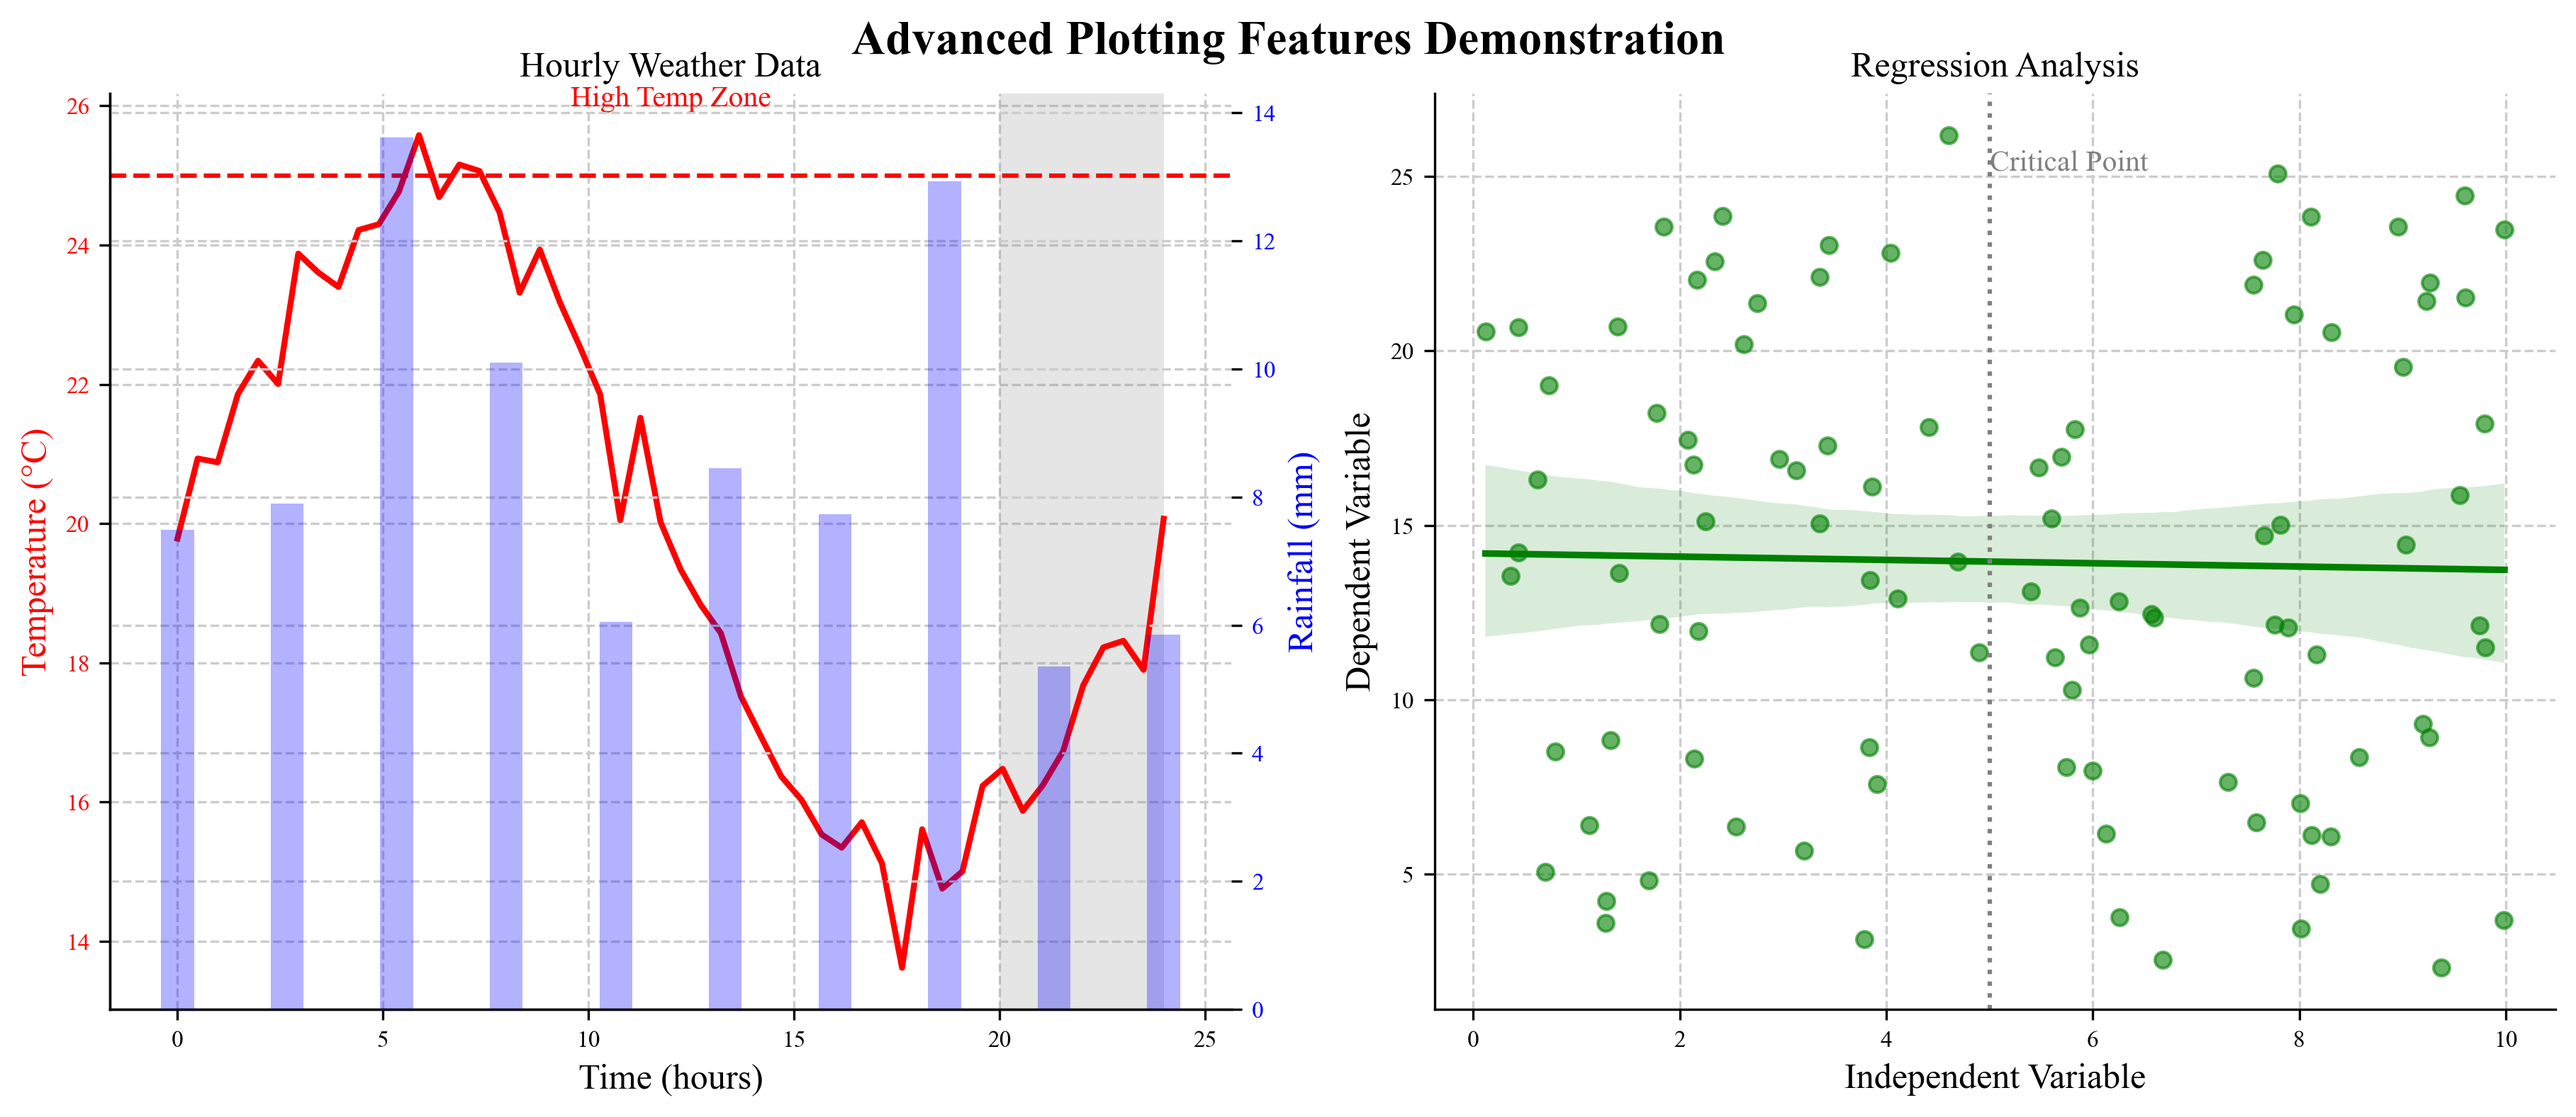
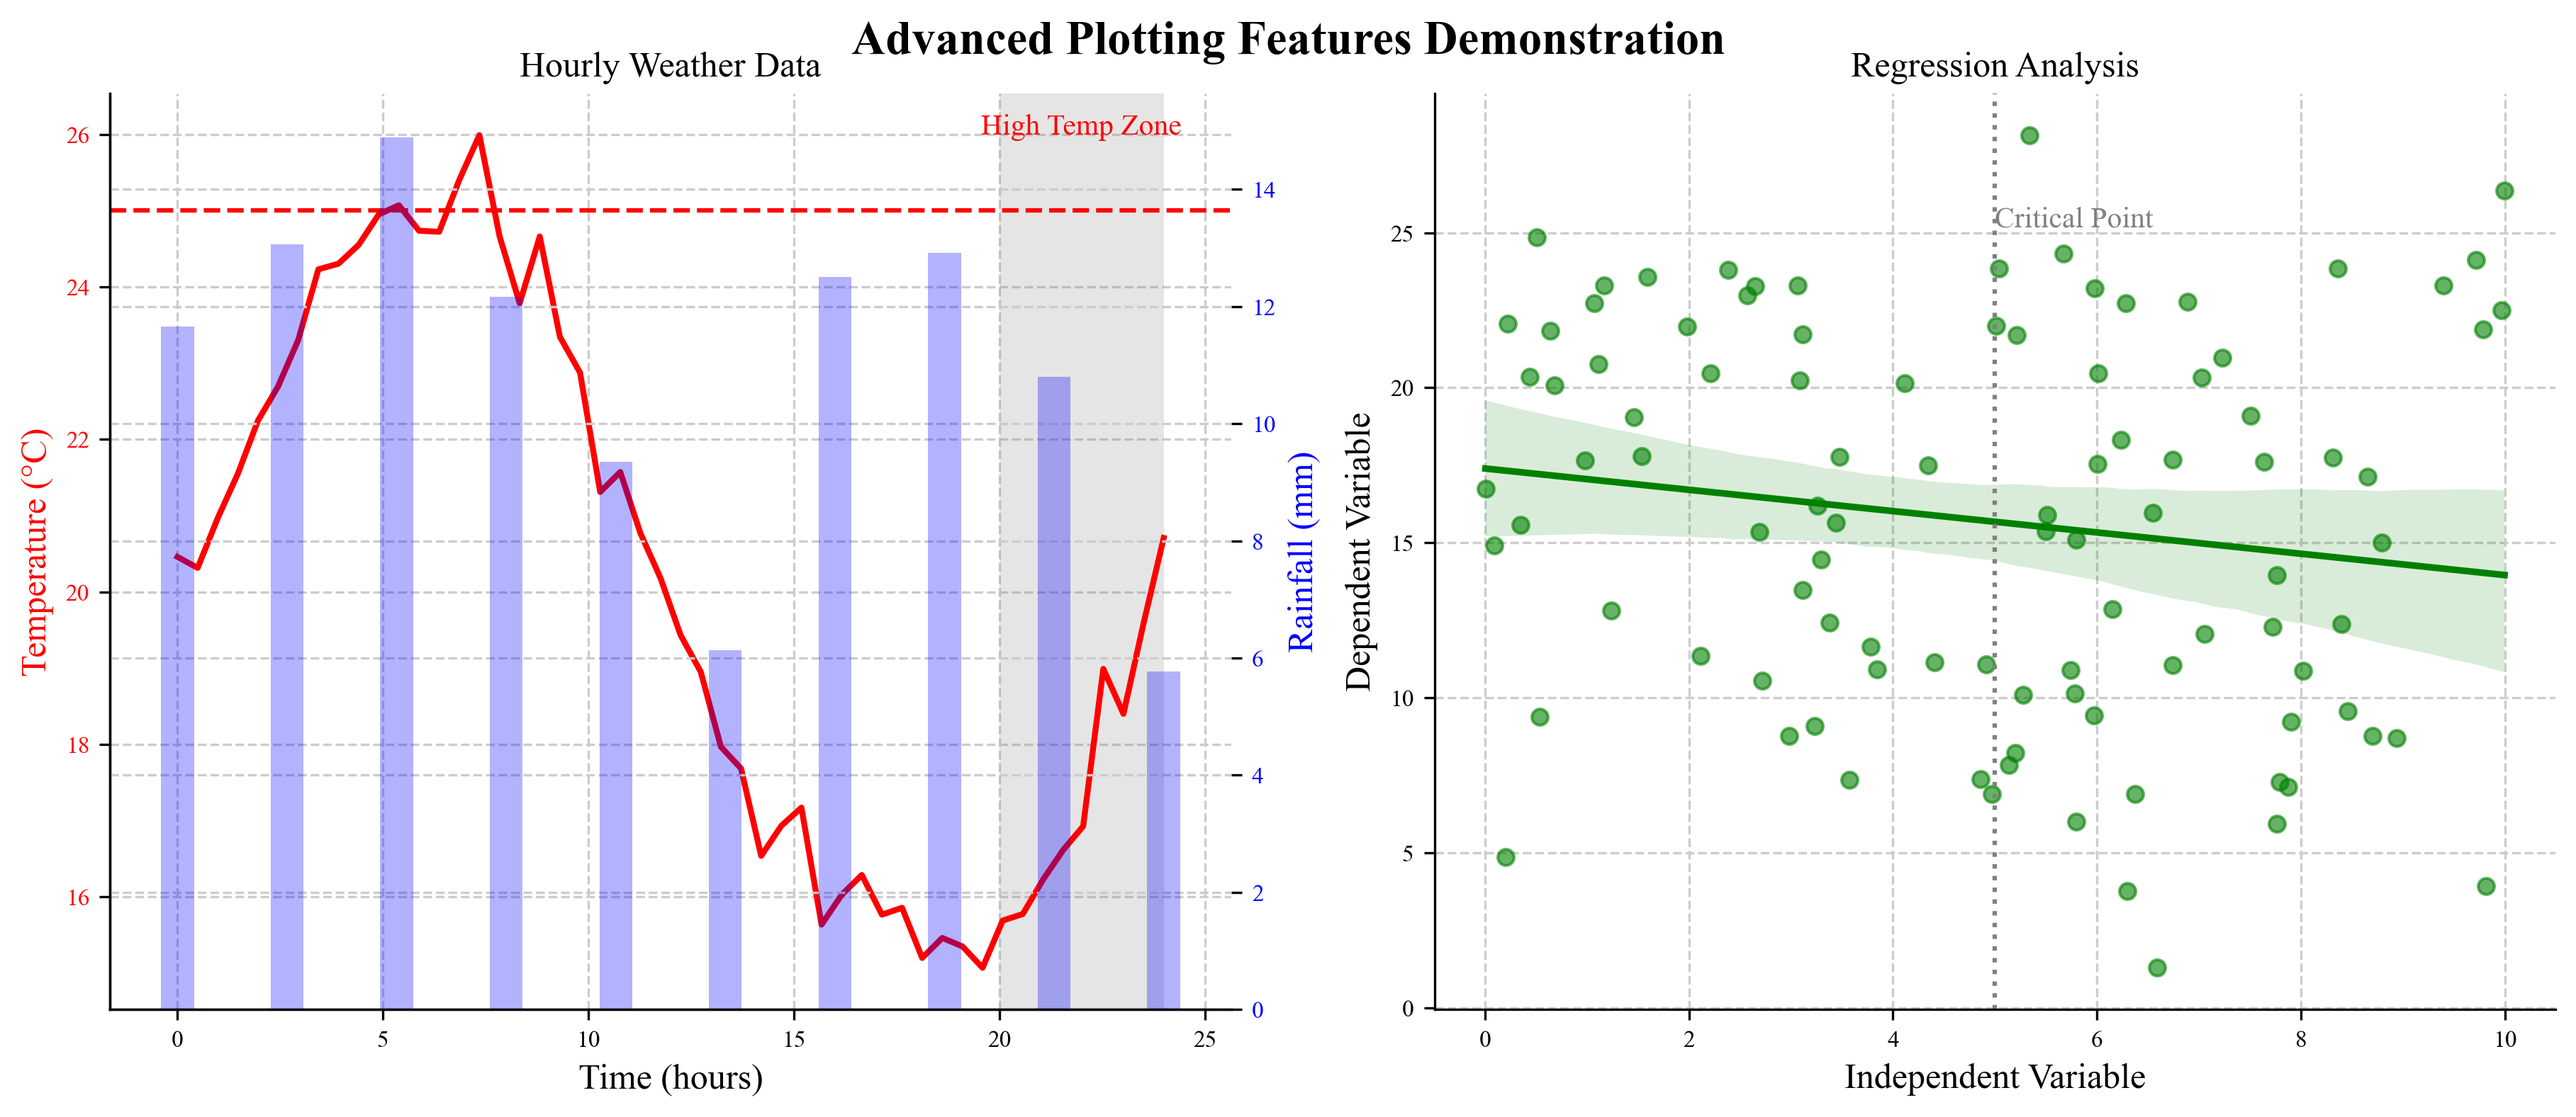
修复twinx逻辑

diff --git a/paperplot/mixins/modifiers.py b/paperplot/mixins/modifiers.py
@@ -6,6 +6,7 @@ import matplotlib.image as mpimg
 import logging
 import numpy as np
 from adjustText import adjust_text
+from collections import OrderedDict
 logger = logging.getLogger(__name__)
 
 class ModifiersMixin:
@@ -151,6 +152,7 @@ class ModifiersMixin:
     def set_legend(self, tag: Optional[Union[str, int]] = None, **kwargs) -> 'Plotter':
         """
         为指定或当前活动的子图添加图例。
+        此方法能够自动处理双Y轴（twinx）图，合并主轴和孪生轴的图例项。
 
         Args:
             tag (Optional[Union[str, int]], optional): 目标子图的tag。如果为None，则使用最后一次绘图的子图。
@@ -159,8 +161,33 @@ class ModifiersMixin:
         Returns:
             Plotter: 返回Plotter实例以支持链式调用。
         """
-        ax = self._get_active_ax(tag)
-        ax.legend(**kwargs)
+        active_tag = tag if tag is not None else self.last_active_tag
+        if active_tag is None:
+            raise ValueError("No active plot to add a legend to. Please plot something first or specify a 'tag'.")
+
+        # 1. 获取主轴并收集其图例项
+        ax_primary = self._get_ax_by_tag(active_tag)
+        h1, l1 = ax_primary.get_legend_handles_labels()
+
+        # 2. 检查是否存在孪生轴，并收集其图例项
+        h2, l2 = [], []
+        if active_tag in self.twin_axes:
+            ax_twin = self.twin_axes[active_tag]
+            h2, l2 = ax_twin.get_legend_handles_labels()
+            if ax_twin.get_legend():
+                ax_twin.get_legend().remove() # 清理孪生轴上可能存在的旧图例
+
+        # 3. 合并并使用 OrderedDict 去重
+        handles = h1 + h2
+        labels = l1 + l2
+        if not handles: # 如果没有任何图例项，直接返回
+            return self
+            
+        by_label = OrderedDict(zip(labels, handles))
+        
+        # 4. 在主轴上创建统一的图例
+        ax_primary.legend(by_label.values(), by_label.keys(), **kwargs)
+        
         return self
 
     def set_suptitle(self, title: str, **kwargs):
@@ -408,20 +435,91 @@ class ModifiersMixin:
         
         return self
 
-    def add_twinx(self, tag: Optional[Union[str, int]] = None, **kwargs) -> plt.Axes:
+    def add_twinx(self, tag: Optional[Union[str, int]] = None, **kwargs) -> 'Plotter':
         """
-        为指定或当前活动的子图创建一个共享X轴但拥有独立Y轴的“双Y轴”图。
+        为指定或当前活动的子图创建一个共享X轴但拥有独立Y轴的“双Y轴”图，
+        并切换Plotter的活动目标到新创建的孪生轴，以支持链式调用。
 
         Args:
             tag (Optional[Union[str, int]], optional): 目标子图的tag。如果为None，则使用最后一次绘图的子图。
             **kwargs: 传递给 `ax.twinx` 的其他参数。
 
         Returns:
-            plt.Axes: 返回新创建的孪生Axes对象，可用于后续绘图。
+            Plotter: 返回Plotter实例以支持链式调用。
+
+        Warning:
+            调用此方法后，Plotter会进入“孪生轴模式”。所有后续的绘图和修饰
+            命令都将作用于新创建的孪生轴。若要返回操作主轴或切换到其他
+            子图，必须显式调用 :meth:`target_primary` 方法。
         """
-        ax1 = self._get_active_ax(tag)
+        active_tag = tag if tag is not None else self.last_active_tag
+        if active_tag is None:
+            raise ValueError("Cannot create twin axis: No active plot found.")
+            
+        if active_tag in self.twin_axes:
+            raise ValueError(f"Tag '{active_tag}' already has a twin axis. Cannot create another one.")
+
+        # 始终获取主轴，避免在孪生轴上创建孪生轴的错误
+        ax1 = self._get_ax_by_tag(active_tag)
         ax2 = ax1.twinx(**kwargs)
-        return ax2
+        
+        # 存储孪生轴并切换上下文
+        self.twin_axes[active_tag] = ax2
+        self.active_target = 'twin'
+        
+        return self
+
+    def target_primary(self, tag: Optional[Union[str, int]] = None) -> 'Plotter':
+        """
+        将后续操作的目标切换回主坐标轴（primary axis）。
+
+        Args:
+            tag (Optional[Union[str, int]], optional): 
+                如果提供，将确保 `last_active_tag` 指向该主轴，并切换上下文。
+                如果为None，则只切换上下文到 'primary'。
+
+        Returns:
+            Plotter: 返回Plotter实例以支持链式调用。
+        """
+        self.active_target = 'primary'
+        if tag is not None:
+            # 确保 last_active_tag 指向的是我们想操作的主轴
+            # _get_ax_by_tag 会隐式校验tag存在性
+            _ = self._get_ax_by_tag(tag) 
+            self.last_active_tag = tag
+        return self
+
+    def target_twin(self, tag: Optional[Union[str, int]] = None) -> 'Plotter':
+        """
+        将后续操作的目标切换到孪生坐标轴（twin axis）。
+
+        Args:
+            tag (Optional[Union[str, int]], optional): 
+                如果提供，将确保 `last_active_tag` 指向该主轴，并切换上下文。
+                如果为None，则只切换上下文到 'twin'，使用当前的 `last_active_tag`。
+
+        Returns:
+            Plotter: 返回Plotter实例以支持链式调用。
+
+        Raises:
+            ValueError: 如果在没有孪生轴的子图上尝试切换到 'twin' 模式。
+        """
+        self.active_target = 'twin'
+        
+        active_tag = tag if tag is not None else self.last_active_tag
+        if active_tag is None:
+            raise ValueError("Cannot switch to twin mode: No active plot found and no tag specified.")
+
+        if active_tag not in self.twin_axes:
+            raise ValueError(f"Cannot switch to twin mode for tag '{active_tag}': No twin axis found. Did you call add_twinx() first?")
+
+        # 如果提供了 tag，更新 last_active_tag
+        if tag is not None:
+            # 确保 tag 对应的主轴存在
+            _ = self._get_ax_by_tag(tag)
+            self.last_active_tag = tag
+            
+        return self
 
     def add_hline(self, y: float, tag: Optional[Union[str, int]] = None, **kwargs) -> 'Plotter':
         """

diff --git a/paperplot/core.py b/paperplot/core.py
@@ -135,6 +135,11 @@ class Plotter(GenericPlotsMixin, DomainSpecificPlotsMixin, ThreeDPlotsMixin, Mac
         self.last_active_tag: Optional[Union[str, int]] = None
         # 用于缓存每个子图使用的数据
         self.data_cache: Dict[Union[str, int], pd.DataFrame] = {}
+        
+        # 存储已创建的孪生轴
+        self.twin_axes: Dict[Union[str, int], plt.Axes] = {}
+        # 标记当前的活动目标是主轴还是孪生轴
+        self.active_target: str = 'primary' # 默认是 'primary'
 
         self.plotted_axes: set[plt.Axes] = set()
 
@@ -223,6 +228,16 @@ class Plotter(GenericPlotsMixin, DomainSpecificPlotsMixin, ThreeDPlotsMixin, Mac
         active_tag = tag if tag is not None else self.last_active_tag
         if active_tag is None:
             raise ValueError("操作失败。之前没有任何绘图操作，且未指定'tag'。")
+        
+        # 新增: 检查是否处于孪生轴上下文
+        if self.active_target == 'twin':
+            if active_tag in self.twin_axes:
+                return self.twin_axes[active_tag]
+            else:
+                # 如果用户尝试在没有孪生轴的图上操作，给出清晰的错误提示
+                raise ValueError(f"No twin axis found for tag '{active_tag}'. Did you call add_twinx() first?")
+        
+        # 如果 active_target 不是 'twin'，则执行原有逻辑
         return self._get_ax_by_tag(active_tag)
 
     def _resolve_ax_and_tag(self, tag: Optional[Union[str, int]] = None, ax: Optional[plt.Axes] = None) -> Tuple[plt.Axes, Union[str, int]]:
@@ -249,6 +264,36 @@ class Plotter(GenericPlotsMixin, DomainSpecificPlotsMixin, ThreeDPlotsMixin, Mac
             DuplicateTagError: 如果提供的新`tag`已存在但未在优先级2中被解析
                                (例如，在顺序模式下)。
         """
+        # 检查是否处于孪生轴上下文
+        if self.active_target == 'twin':
+            # 在孪生轴模式下，绘图总是发生在“最后一个活动主轴”对应的孪生轴上
+            active_primary_tag = self.last_active_tag
+            if active_primary_tag is None:
+                raise ValueError("Twin mode is active, but no primary plot context is set. Please plot on a primary axis first.")
+            
+            if active_primary_tag not in self.twin_axes:
+                raise ValueError(f"Twin mode is active for tag '{active_primary_tag}', but no twin axis exists. Did you call add_twinx()?")
+
+            # 获取孪生轴对象
+            _ax = self.twin_axes[active_primary_tag]
+            
+            # 决定此图的 tag：优先使用用户传入的 tag，否则复用主轴的 tag
+            resolved_tag = tag if tag is not None else active_primary_tag
+
+            # 如果用户提供了新的 tag，必须检查它是否已存在，并进行注册
+            if tag is not None:
+                if tag in self.tag_to_ax and self.tag_to_ax[tag] is not _ax:
+                    # 如果 tag 已存在且指向的不是当前这个孪生轴，则为重复
+                    raise DuplicateTagError(tag)
+                
+                # 将新 tag 与这个孪生轴关联起来
+                self.tag_to_ax[tag] = _ax
+            
+            # 将这个孪生轴标记为已绘图（如果需要）
+            self.plotted_axes.add(_ax)
+            
+            return _ax, resolved_tag
+
         _ax: plt.Axes
         resolved_tag: Union[str, int]
 

diff --git a/examples/Layout/twinx_chaining_example.py b/examples/Layout/twinx_chaining_example.py
@@ -1,0 +1,63 @@
+from matplotlib.patches import Rectangle
+
+import paperplot as pp
+import pandas as pd
+import numpy as np
+
+# 1. 准备模拟数据
+np.random.seed(42)
+hours = np.arange(24)
+temperature = 20 + 5 * np.sin(hours / 24 * 2 * np.pi) + np.random.randn(24) * 0.5
+rainfall = np.random.rand(24) * 10
+
+df_temp = pd.DataFrame({
+    'time': hours,
+    'temperature': temperature
+})
+
+df_rain = pd.DataFrame({
+    'time': hours,
+    'rainfall': rainfall
+})
+
+# 2. 创建 Plotter 并执行链式调用
+# layout=(1, 1) 创建一个子图
+plotter = pp.Plotter(layout=(1, 1), figsize=(8, 5))
+
+(
+    plotter
+    # --- 1. 在主轴上绘图和设置 ---
+    .add_line(data=df_temp, x='time', y='temperature', tag='weather_plot', label='Temperature (°C)', color='red')
+    .set_title('Hourly Weather Data')
+    .set_xlabel('Time (hours)')
+    .set_ylabel('Temperature (°C)', color='red')
+    .tick_params(axis='y', labelcolor='red')
+
+    # --- 2. 切换到孪生轴上下文 ---
+    # 创建孪生轴，并将 active_target 切换为 'twin'
+    .add_twinx(tag='weather_plot')
+
+    # --- 3. 在孪生轴上绘图和设置 ---
+    # 绘图操作会自动作用于孪生轴
+    .add_bar(data=df_rain, x='time', y='rainfall', label='Rainfall (mm)', color='blue', alpha=0.3)
+
+    # --- 4. 切换轴，来添加更多修饰 ---
+    .target_primary(tag='weather_plot') # 切换回主轴，并确保 last_active_tag 仍是 'weather_plot'
+    .add_hline(y=25, linestyle='--', color='red', label='Avg Temp')
+
+    .target_twin(tag='weather_plot') # 切换回孪生轴
+    .tick_params(axis='y', labelcolor='blue')
+    .set_ylabel('Rainfall (mm)', color='blue')
+
+    .target_primary(tag='weather_plot') # 切换回主轴
+    # --- 5. 收尾工作 ---
+    # set_legend 会自动收集主轴和孪生轴的图例项并合并
+    .set_legend(loc='upper left') 
+
+)
+
+night_rect = Rectangle((20, 0), 4, 30, facecolor='gray', alpha=0.2, transform=plotter.get_ax('weather_plot').transData)
+plotter.add_patch(night_rect, tag='weather_plot').save("twinx_chaining_example.png")
+
+
+print("examples/Layout/twinx_chaining_example.py executed successfully.")

diff --git a/examples/Features_Customization/feature_expansion_example.py b/examples/Features_Customization/feature_expansion_example.py
@@ -33,22 +33,30 @@ try:
 
     # --- 左侧子图：双Y轴示例 ---
     # 1. 绘制主Y轴（温度）
-    plotter.add_line(
-        data=df_temp, x='time', y='temperature', tag='weather_plot', label='Temperature (°C)', color='red'
-    ).set_title('Hourly Weather Data'
-    ).set_xlabel('Time (hours)'
-    ).set_ylabel('Temperature (°C)', color='red'
-    ).tick_params(axis='y', labelcolor='red')
+    (
+        plotter.add_line(
+        data=df_temp, x='time', y='temperature', tag='weather_plot', label='Temperature (°C)', color='red')
+     .set_title('Hourly Weather Data')
+     .set_xlabel('Time (hours)')
+     .set_ylabel('Temperature (°C)', color='red')
+     .tick_params(axis='y', labelcolor='red')
 
-    # 2. 创建twinx轴并绘制次Y轴（降雨量）
-    ax2 = plotter.add_twinx('weather_plot')
-    ax2.bar(df_rain['time'], df_rain['rainfall'], width=0.8, alpha=0.3, color='blue', label='Rainfall (mm)')
-    ax2.set_ylabel('Rainfall (mm)', color='blue')
-    ax2.tick_params(axis='y', labelcolor='blue')
+     # --- 切换到孪生轴上下文 ---
+     .add_twinx()  # 从这里开始，所有命令都作用于孪生轴
 
-    # 3. 添加参考线和文本
-    plotter.add_hline(y=25, linestyle='--', color='red', label='Avg Temp', tag='weather_plot')
-    plotter.add_text(x=12, y=26, text='High Temp Zone', color='red', ha='center', tag='weather_plot')
+     # --- 在孪生轴上绘图和设置 ---
+     .add_bar(x=df_rain['time'], y=df_rain['rainfall'], width=0.8, alpha=0.3, color='blue', label='Rainfall (mm)')
+     .set_ylabel('Rainfall (mm)', color='blue')
+     .tick_params(axis='y', labelcolor='blue')
+
+     # --- 关键步骤：切回主轴上下文 ---
+     .target_primary()
+
+     # --- 现在可以在主轴上继续添加修饰 ---
+     .add_hline(y=25, linestyle='--', color='red', label='Avg Temp')
+     .add_text(x=22, y=26, text='High Temp Zone', color='red', ha='center')
+     )  # 链式调用在这里结束
+
 
     # 4. 添加一个Patch (例如，一个表示夜间的矩形)
     night_rect = Rectangle((20, 0), 4, 30, facecolor='gray', alpha=0.2, transform=plotter.get_ax('weather_plot').transData)
